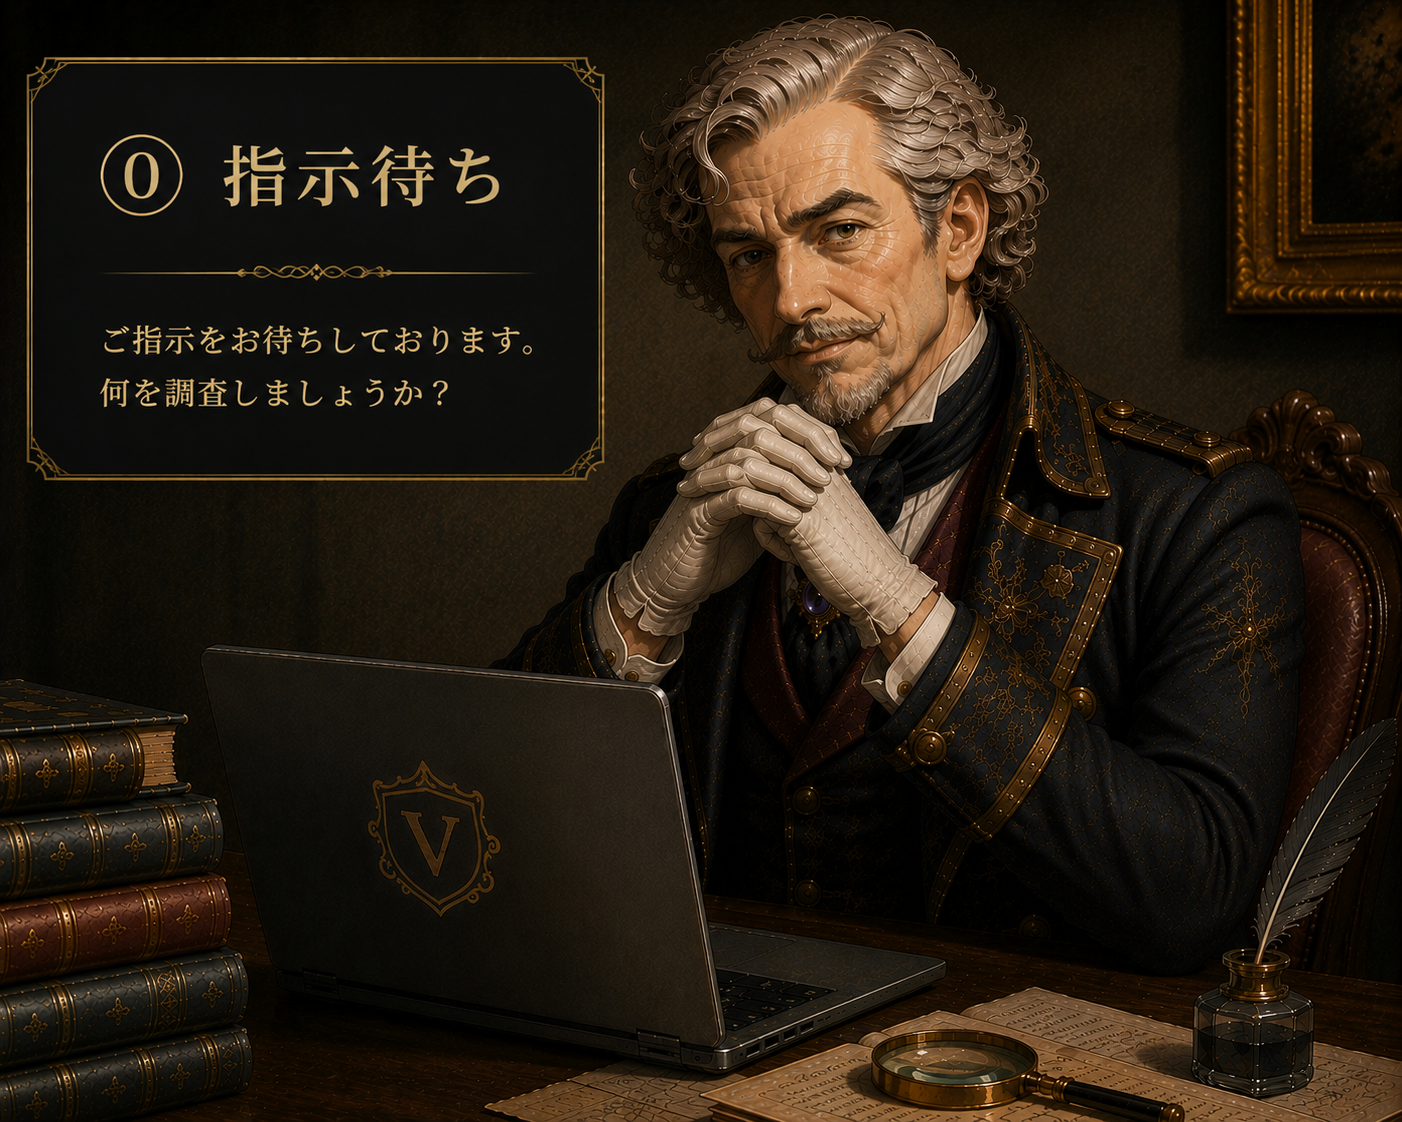
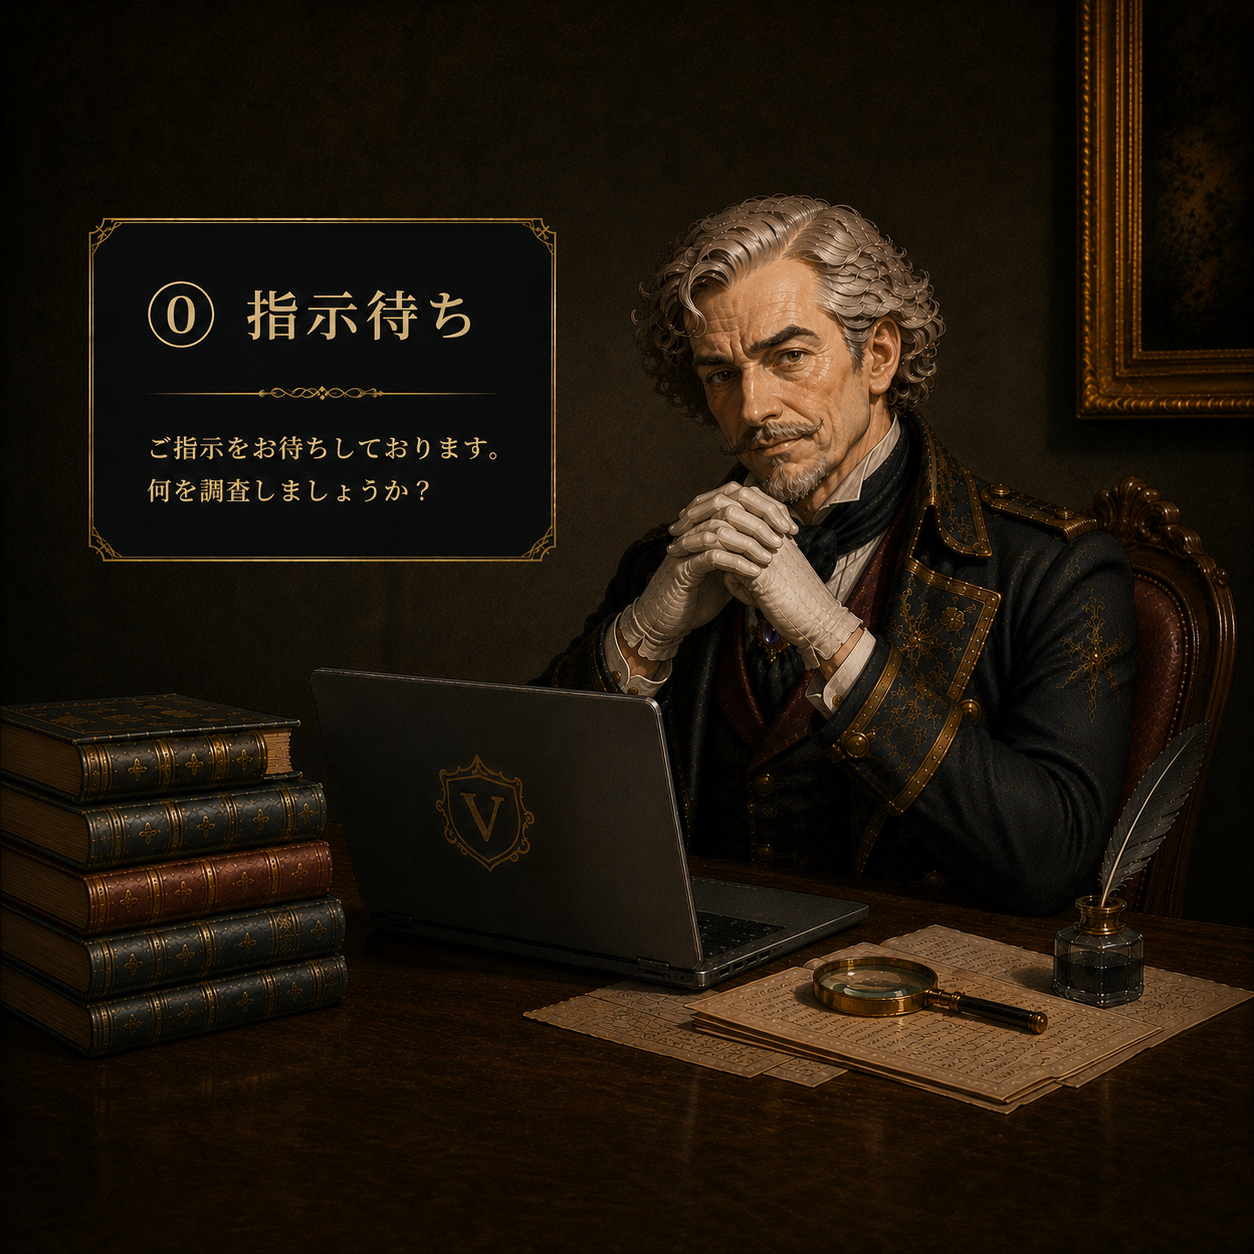
fix: ヴィクトル画像のサイズを正方形に統一

diff --git a/victor/gui.py b/victor/gui.py
@@ -55,6 +55,7 @@ ACCENT_COLORS = {
 }
 
 MINIMUM_RESEARCH_SECONDS = 3.0
+STATUS_IMAGE_SIZE = (440, 440)
 
 
 def wait_for_minimum_duration(
@@ -173,8 +174,14 @@ class VictorApp(ttk.Frame):
 
         content = ttk.Frame(right, style="Wood.TFrame")
         content.grid(row=1, column=0, sticky="nw", pady=(4, 0))
-        self.image_label = ttk.Label(content, anchor="center", style="Image.TLabel")
-        self.image_label.grid(row=0, column=0, rowspan=7, sticky="nw", padx=(0, 24))
+        self.image_frame = tk.Frame(
+            content, width=STATUS_IMAGE_SIZE[0], height=STATUS_IMAGE_SIZE[1],
+            background=COLORS["wood"], bd=0,
+        )
+        self.image_frame.grid(row=0, column=0, rowspan=7, sticky="nw", padx=(0, 24))
+        self.image_frame.grid_propagate(False)
+        self.image_label = ttk.Label(self.image_frame, anchor="center", style="Image.TLabel")
+        self.image_label.place(relx=0.5, rely=0.5, anchor=tk.CENTER)
         self.values: dict[str, ttk.Label] = {}
         for row, (key, caption) in enumerate((
             ("status", "判定"), ("current", "現在価格"), ("average", "30日平均"),
@@ -358,7 +365,7 @@ class VictorApp(ttk.Frame):
         try:
             with Image.open(path) as original:
                 rendered = original.convert("RGB")
-                rendered.thumbnail((520, 440), Image.Resampling.LANCZOS)
+                rendered.thumbnail(STATUS_IMAGE_SIZE, Image.Resampling.LANCZOS)
                 image = ImageTk.PhotoImage(rendered, master=self.master)
             self.image_cache[status] = image
             return image

diff --git a/tests/test_gui_resources.py b/tests/test_gui_resources.py
@@ -1,6 +1,6 @@
 import unittest
 
-from victor.gui import ACCENT_COLORS, IMAGE_FILES
+from victor.gui import ACCENT_COLORS, IMAGE_FILES, STATUS_IMAGE_SIZE
 from victor.models import TimingStatus
 
 
@@ -13,6 +13,9 @@ class GuiResourcesTest(unittest.TestCase):
 
     def test_waiting_uses_default_image(self) -> None:
         self.assertEqual("victor_00_waiting.png", IMAGE_FILES[TimingStatus.WAITING])
+
+    def test_status_images_use_square_display_area(self) -> None:
+        self.assertEqual(STATUS_IMAGE_SIZE[0], STATUS_IMAGE_SIZE[1])
 
 
 if __name__ == "__main__":
